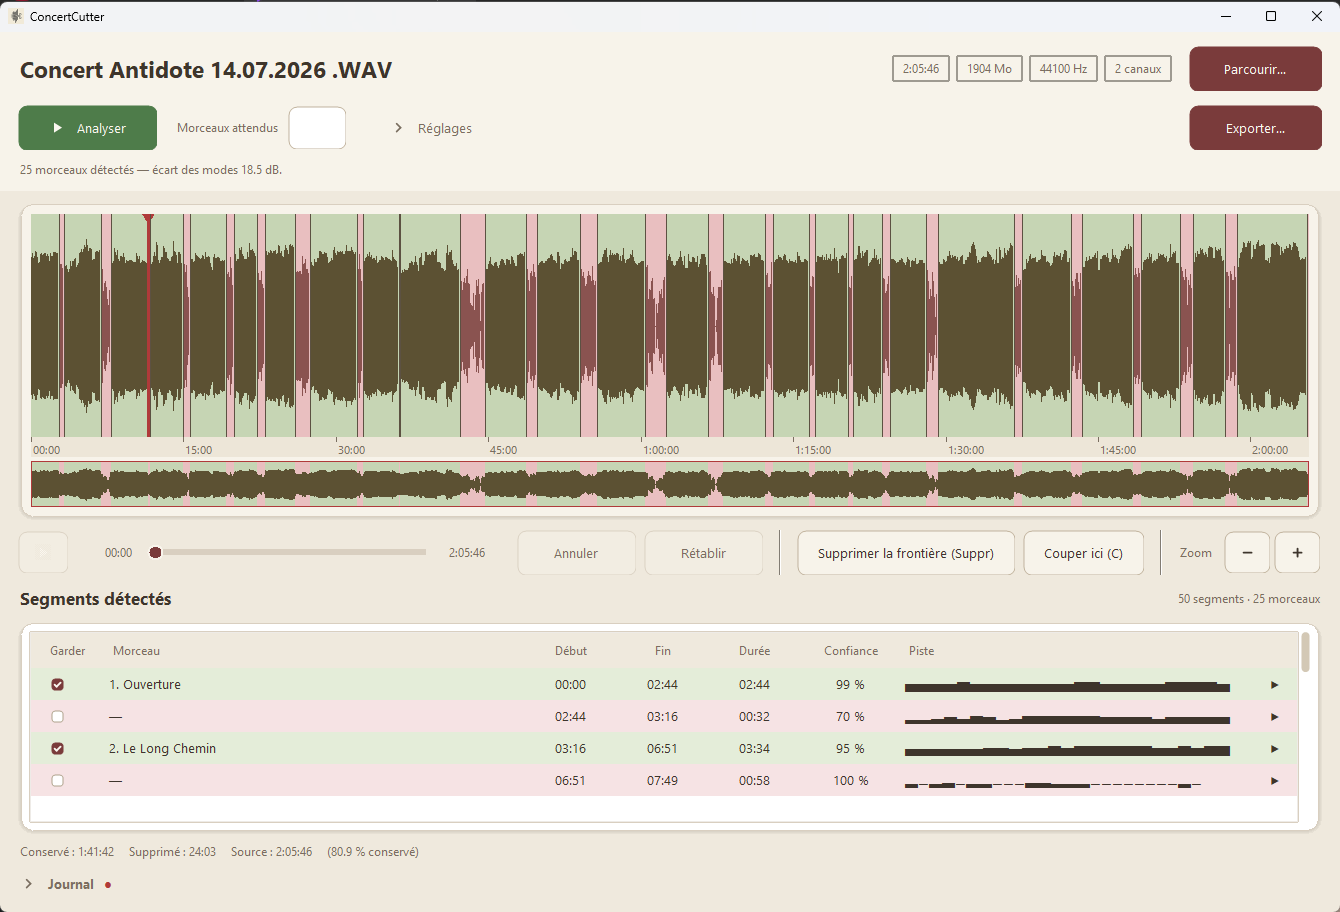
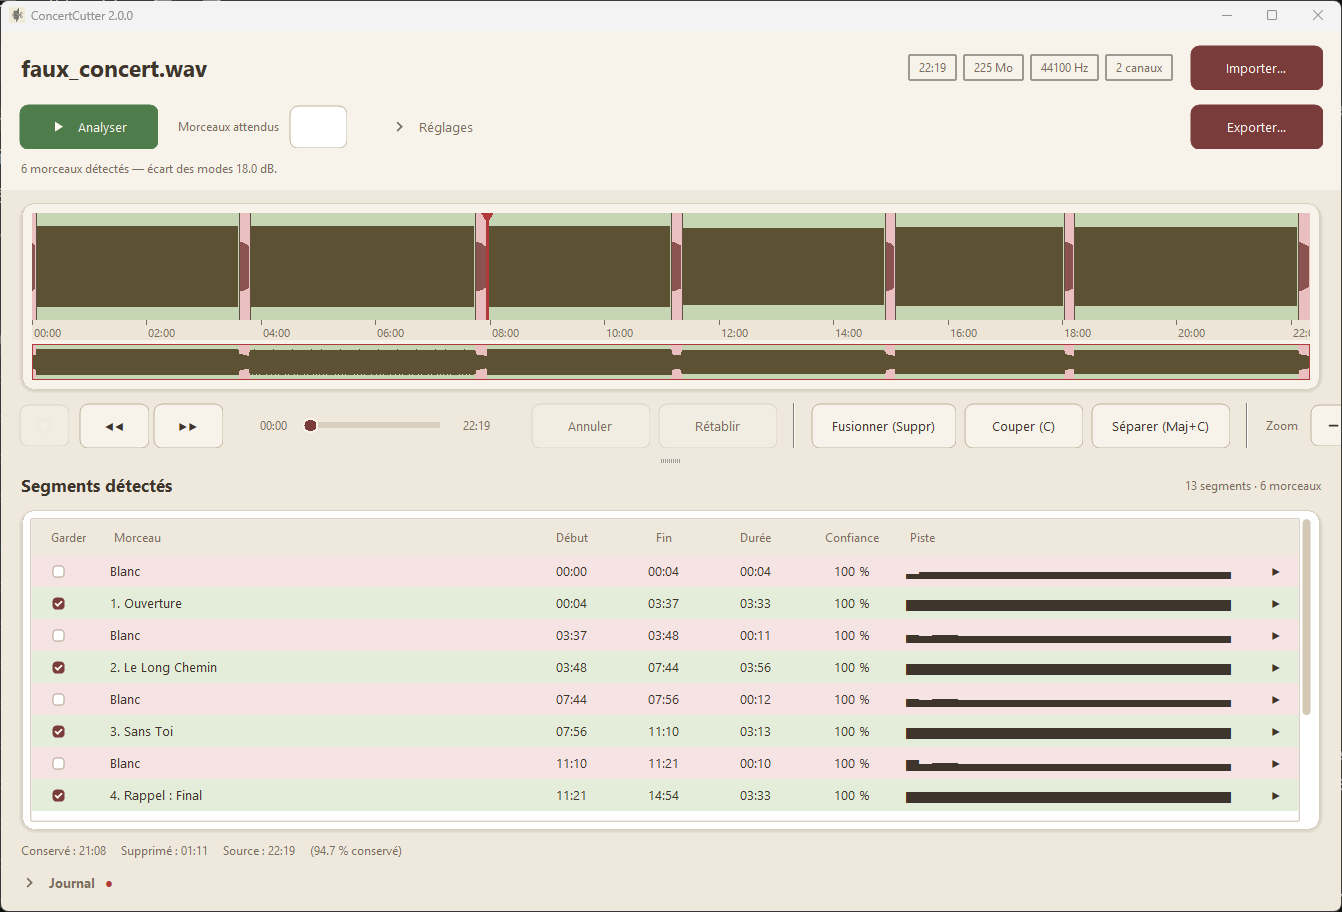
Refait les captures du README, et fiabilise l'outil qui les prend
Les images montraient l'interface d'avant les deux bêta-tests : l'ancienne
fenêtre d'export, et un tableau sans les noms de morceaux sur chaque ligne. La
barre de titre annonce maintenant la version, ce qui date la capture d'elle-même.

Trois défauts de l'outil, dont un a bien failli publier le bureau de quelqu'un.

La capture passe par l'écran : `lift()` ne suffisait pas à mettre la fenêtre
devant, une fenêtre déjà déclarée topmost restant au-dessus. On obtenait alors
une image parfaitement valide de tout autre chose, et rien ne le signalait. La
fenêtre passe topmost le temps de la photo, et un contrôle compte ensuite les
pixels aux couleurs du thème — moins d'un quart, la capture est jetée plutôt
qu'écrite.

Le cadrage ajoutait 32 pixels au-dessus de la zone cliente pour reprendre la
barre de titre. C'est sa hauteur sur une configuration : deux pixels de trop, et
un morceau de la fenêtre du dessous entrait en haut de l'image — visible sur la
capture de la fenêtre sans ffmpeg. Les bornes viennent maintenant de Windows,
ombre portée exclue.

Et la fenêtre d'export était photographiée sans les morceaux du concert : elle
escamotait donc sa première question, et l'image en montrait deux là où le mode
d'emploi en annonce trois.

diff --git a/tools/make_screenshots.py b/tools/make_screenshots.py
@@ -23,12 +23,13 @@ from __future__ import annotations
 import argparse
 import subprocess
 import time
+import tkinter as tk
 from pathlib import Path
 
 from concertcutter.audio import probe
 from concertcutter.detect_hmm import HmmParams, analyze
 from concertcutter.spectral import SpectralFeatures, extract
-from concertcutter.ui import export_dialog
+from concertcutter.ui import export_dialog, theme
 from concertcutter.ui.app import App, _hms
 from concertcutter import video
 
@@ -37,8 +38,10 @@ from concertcutter import video
 # nommer les morceaux.
 TITRES = ["Ouverture", "Le Long Chemin", "Sans Toi", "Rappel : Final"]
 
-# Hauteur de la barre de titre de Windows 11, à 100 % d'échelle. Tk ne sait pas
-# la donner : `winfo_rooty` désigne le haut de la zone cliente, sous elle.
+# Hauteur approximative d'une barre de titre Windows 11. Ne sert plus à cadrer
+# — les bornes viennent de Windows — mais à savoir à partir d'où le contrôle
+# doit regarder : la barre de titre n'est pas aux couleurs de l'application, et
+# la compter ferait baisser le score sans rien dire de la capture.
 TITRE_H = 32
 
 # Chemins inventés, plutôt que ceux de la machine qui fabrique les captures :
@@ -106,7 +109,13 @@ def _populate(app: App, wav: Path, analysis, features) -> App:
 
 
 def _shot_dialog(app: App, path: Path, ffmpeg: bool) -> None:
-    """Ouvre la fenêtre d'export dans l'état demandé, la capture, la referme."""
+    """Ouvre la fenêtre d'export dans l'état demandé, la capture, la referme.
+
+    Avec les morceaux du concert : sans eux la fenêtre escamote sa première
+    question, et la capture en montrait deux là où le mode d'emploi en annonce
+    trois. C'est le genre d'écart qu'un lecteur met sur le compte de sa propre
+    lecture avant de le mettre sur celui de l'image.
+    """
     video.forget_probe()
     if ffmpeg:
         # Sur une machine sans ffmpeg, la capture « normale » montrerait le
@@ -116,10 +125,15 @@ def _shot_dialog(app: App, path: Path, ffmpeg: bool) -> None:
     else:
         video._probe_cache["ffmpeg"] = None
 
-    dialog = export_dialog.ExportDialog(app, video_tracks=ffmpeg)
+    dialog = export_dialog.ExportDialog(app, video_tracks=ffmpeg,
+                                        pieces=app._pieces())
     dialog.set_directory(DEST)
     if ffmpeg:
         dialog.set_images(IMAGES)
+        # Une ligne choisie : les commandes qui portent sur elle sont grises
+        # tant qu'il n'y en a pas, et une rangée de boutons éteints se lit comme
+        # une fonction indisponible plutôt que comme une fonction en attente.
+        dialog._select_image(0)
     dialog.center_on(app)
     dialog.update()
     _shot(dialog, path)
@@ -138,25 +152,85 @@ def _shot(window, path: Path) -> None:
     est reprise au-dessus, sans quoi la capture commencerait sous le nom de la
     fenêtre.
     """
+    # Au-dessus de tout le reste, le temps de la photo. `lift` seul ne suffit
+    # pas : une fenêtre déjà déclarée topmost — un lecteur vidéo, un jeu —
+    # reste devant, et c'est elle qu'on photographiait. L'attribut est rendu
+    # aussitôt après, pour ne pas laisser une fenêtre collée au premier plan.
+    window.attributes("-topmost", True)
     window.lift()
     window.focus_force()
     window.update_idletasks()
     window.update()
     time.sleep(0.6)     # le temps que Windows finisse de dessiner le cadre
 
-    x = window.winfo_rootx()
-    y = window.winfo_rooty() - TITRE_H
-    w = window.winfo_width()
-    h = window.winfo_height() + TITRE_H
+    # Les bornes viennent de Windows, pas d'une estimation. La barre de titre
+    # était reprise en ajoutant 32 pixels au-dessus de la zone cliente : c'est
+    # sa hauteur sur *une* configuration, et deux pixels de trop suffisent à
+    # faire entrer un morceau de la fenêtre du dessous en haut de l'image.
+    # `DwmGetWindowAttribute` donne le cadre tel qu'il se voit, ombre portée
+    # exclue — ce que `GetWindowRect` ne fait pas depuis Windows 10.
+    script = f"""
+Add-Type -AssemblyName System.Drawing;
+Add-Type -TypeDefinition @'
+using System;
+using System.Runtime.InteropServices;
+public struct RECT {{ public int L, T, R, B; }}
+public static class Win {{
+  [DllImport("user32.dll")] public static extern IntPtr GetAncestor(IntPtr h, uint f);
+  [DllImport("user32.dll")] public static extern bool GetWindowRect(IntPtr h, out RECT r);
+  [DllImport("dwmapi.dll")] public static extern int DwmGetWindowAttribute(
+      IntPtr h, int a, out RECT r, int s);
+}}
+'@;
+$h = [Win]::GetAncestor([IntPtr]{window.winfo_id()}, 2);
+$r = New-Object RECT;
+if ([Win]::DwmGetWindowAttribute($h, 9, [ref]$r, 16) -ne 0) {{
+    [void][Win]::GetWindowRect($h, [ref]$r);
+}}
+$w = $r.R - $r.L; $hgt = $r.B - $r.T;
+$b = New-Object Drawing.Bitmap $w,$hgt;
+$g = [Drawing.Graphics]::FromImage($b);
+$g.CopyFromScreen($r.L, $r.T, 0, 0, $b.Size);
+$b.Save('{path.as_posix()}', [Drawing.Imaging.ImageFormat]::Png);
+"Fenetre {{0}}x{{1}} en {{2}},{{3}}" -f $w, $hgt, $r.L, $r.T
+"""
+    try:
+        subprocess.run(["powershell", "-NoProfile", "-Command", script], check=True)
+    finally:
+        window.attributes("-topmost", False)
+    _confirm(window, path)
 
-    script = (
-        "Add-Type -AssemblyName System.Drawing;"
-        f"$b = New-Object Drawing.Bitmap {w},{h};"
-        "$g = [Drawing.Graphics]::FromImage($b);"
-        f"$g.CopyFromScreen({max(0, x)},{max(0, y)},0,0,$b.Size);"
-        f"$b.Save('{path.as_posix()}', [Drawing.Imaging.ImageFormat]::Png);"
-    )
-    subprocess.run(["powershell", "-NoProfile", "-Command", script], check=True)
+
+def _confirm(window, path: Path) -> None:
+    """Refuse une capture qui ne montre pas la fenêtre.
+
+    La capture passe par l'écran : si quoi que ce soit passe devant au mauvais
+    moment, on obtient une image parfaitement valide de tout autre chose. Elle
+    part alors dans un README public sans que rien ne le signale — c'est arrivé,
+    et c'est le bureau de quelqu'un qui a failli s'y retrouver.
+
+    Le contrôle est grossier exprès : on compte les pixels qui portent une
+    couleur du thème. Sous la barre de titre, une fenêtre de l'application en
+    est presque entièrement faite ; n'importe quoi d'autre — une photo, un
+    navigateur, un jeu — n'en a pratiquement aucun.
+    """
+    shot = tk.PhotoImage(master=window, file=str(path))
+    wanted = {theme.APP_BG.lower(), theme.PANEL_BG.lower(), theme.FIELD_BG.lower()}
+    seen = total = 0
+    # Une grille de points suffit, et coûte mille lectures au lieu d'un million.
+    for x in range(4, shot.width() - 4, max(1, shot.width() // 40)):
+        for y in range(TITRE_H + 4, shot.height() - 4, max(1, shot.height() // 40)):
+            total += 1
+            if "#%02x%02x%02x" % shot.get(x, y) in wanted:
+                seen += 1
+    share = seen / max(1, total)
+    if share < 0.25:
+        path.unlink(missing_ok=True)
+        raise SystemExit(
+            f"Capture abandonnée : {path.name} ne montre pas l'application "
+            f"({share:.0%} de pixels au thème, 25 % attendus). Une autre "
+            "fenêtre est passée devant — fermer ce qui traîne et relancer.")
+    print(f"  {path.name} — {share:.0%} de pixels au thème")
 
 
 if __name__ == "__main__":
